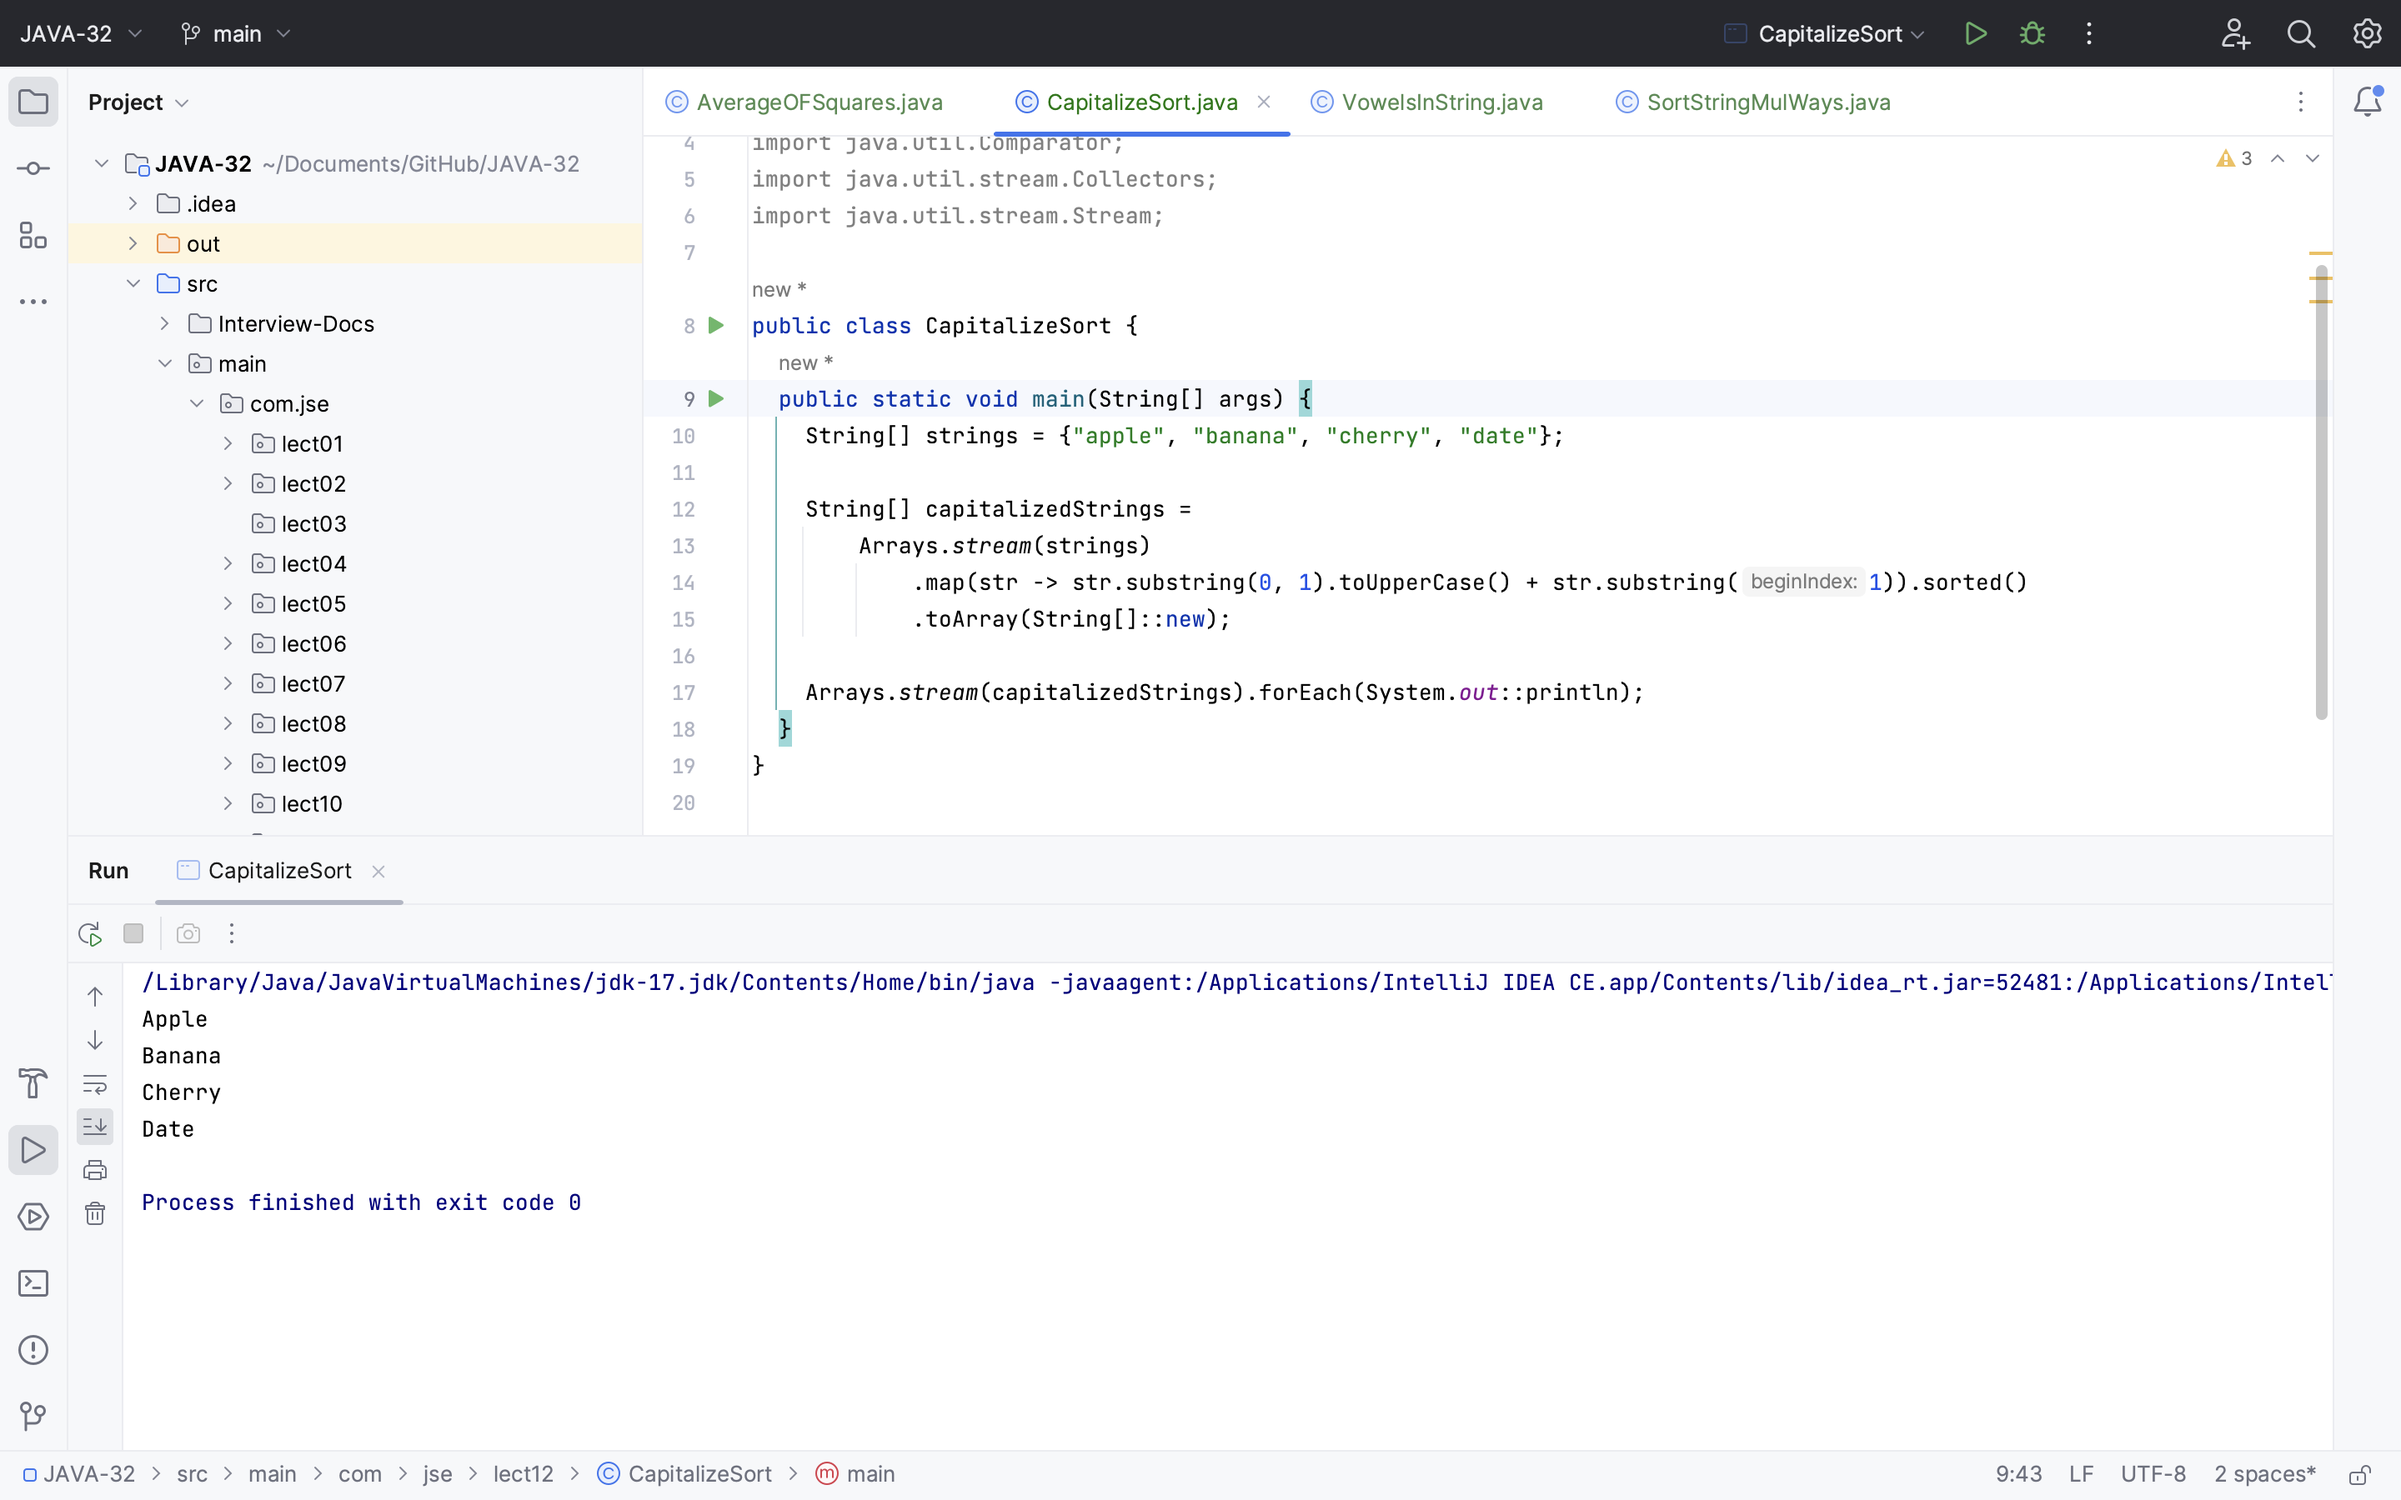
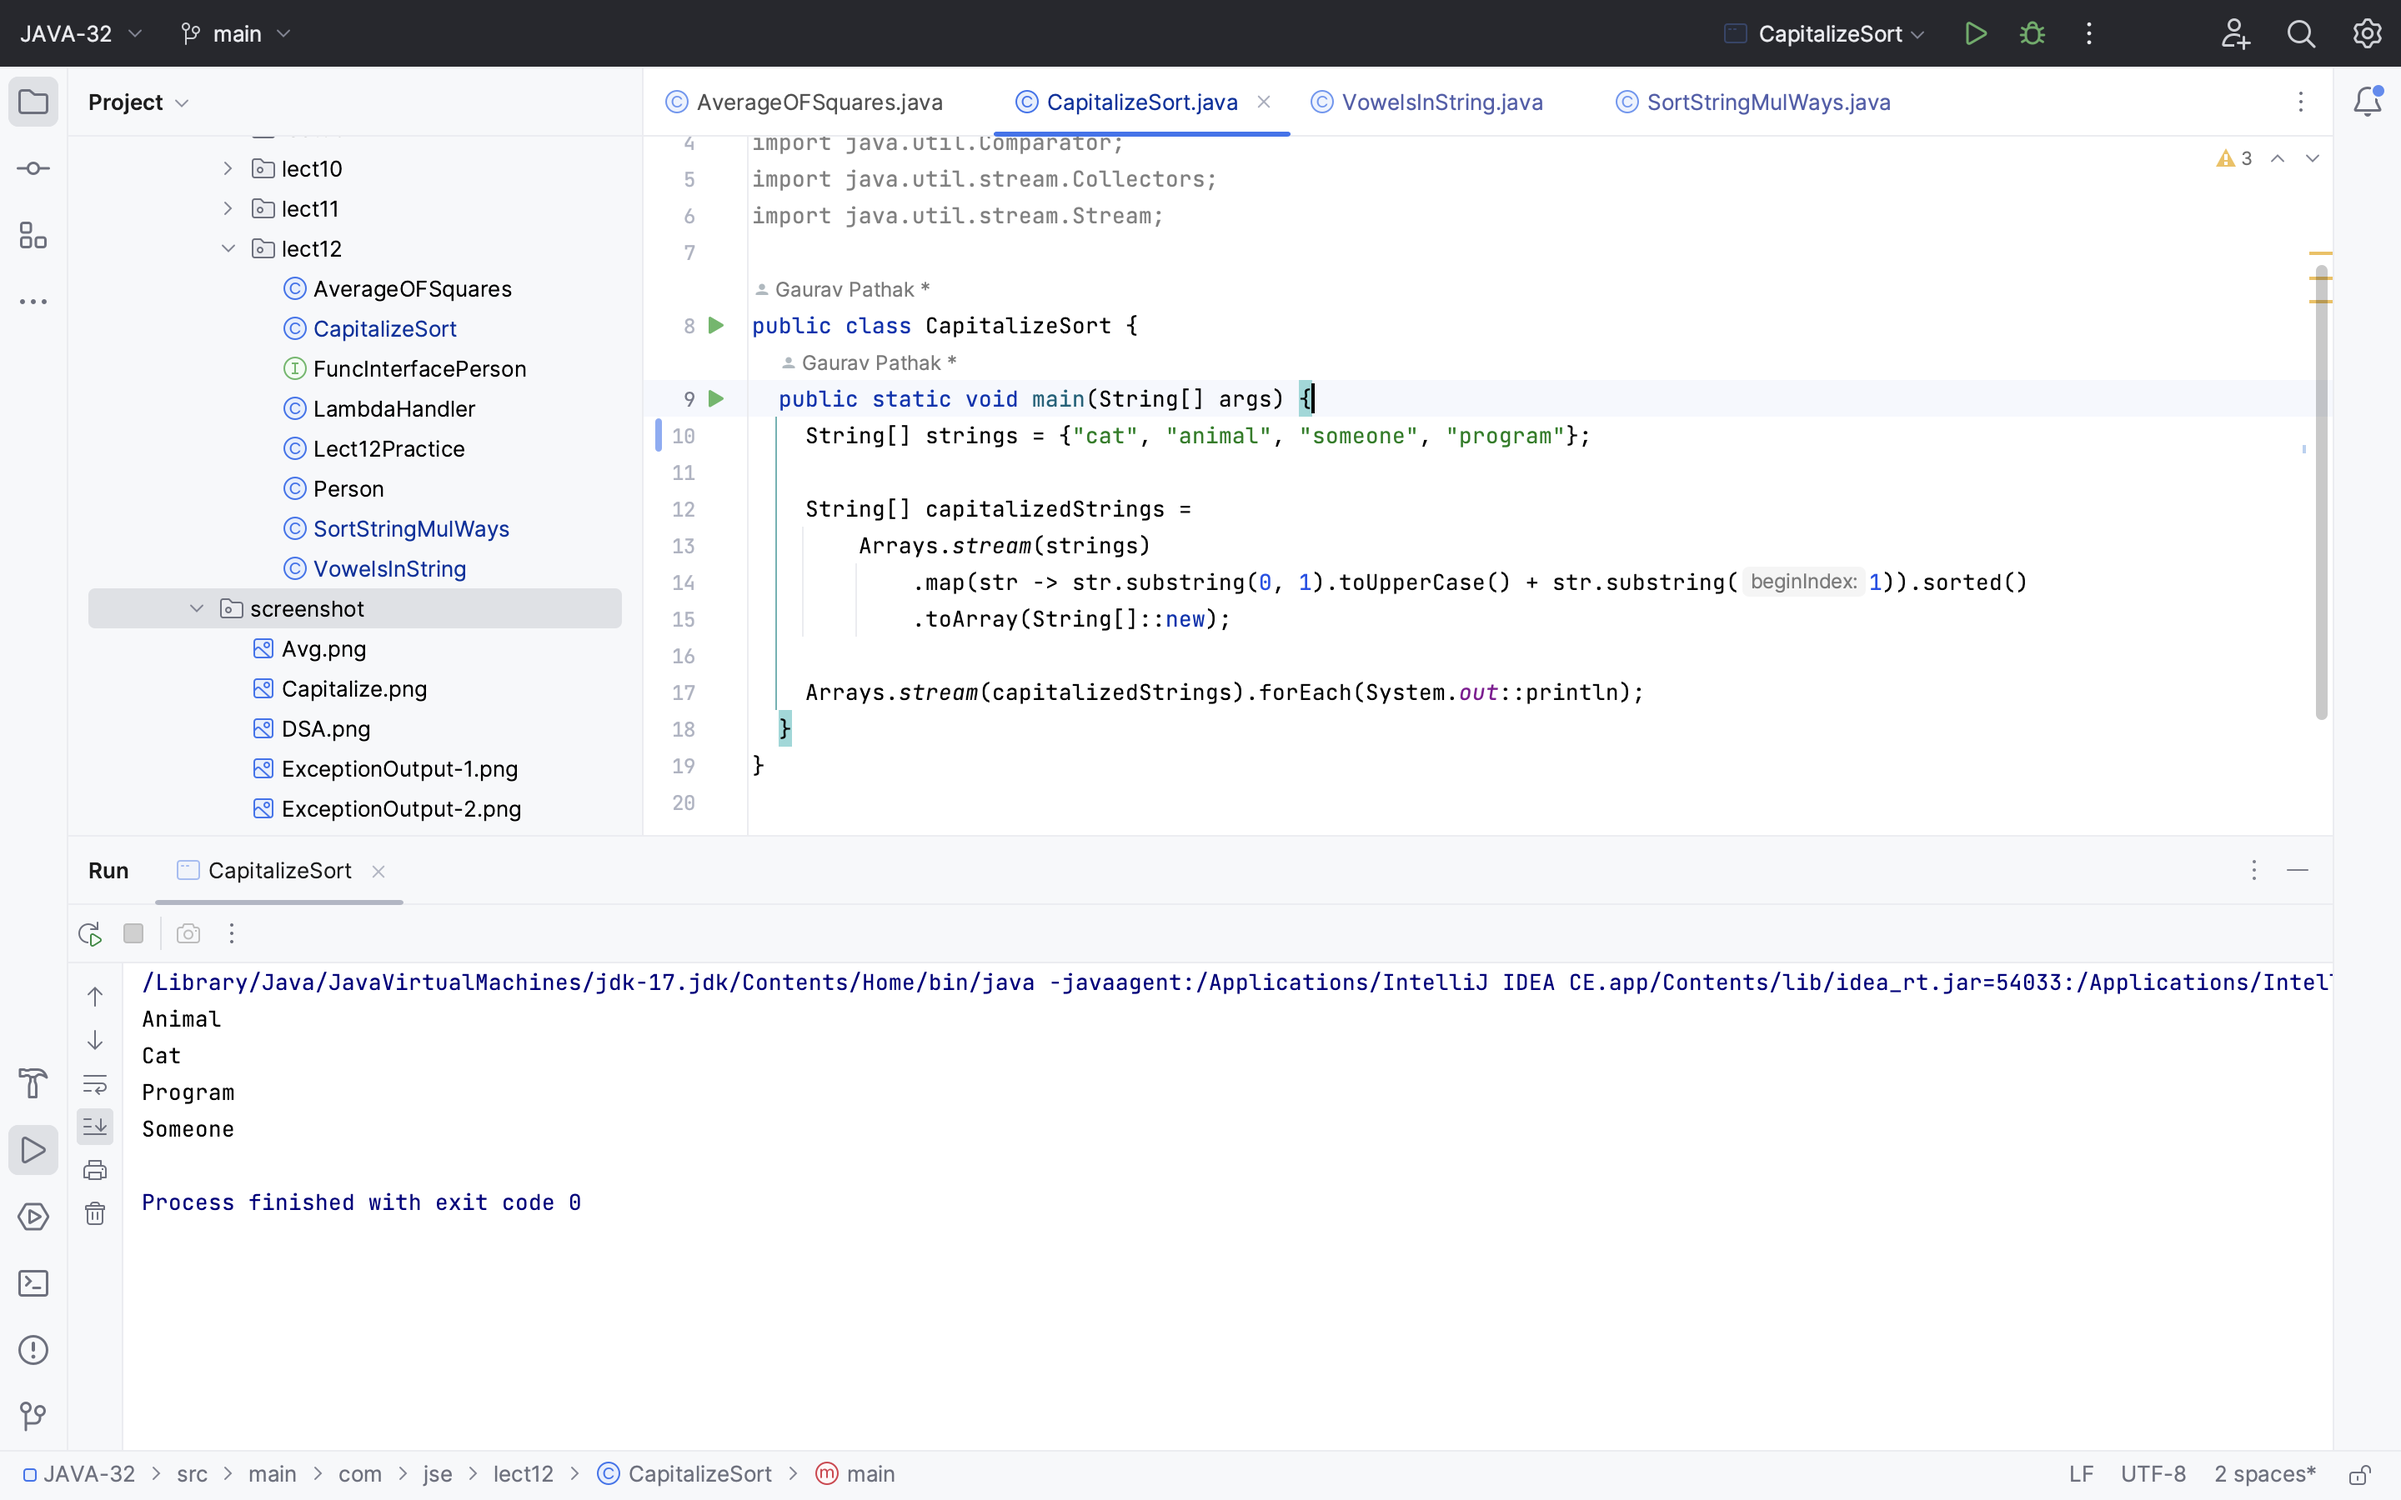
[Update]

diff --git a/src/main/com/jse/lect12/SortStringMulWays.java b/src/main/com/jse/lect12/SortStringMulWays.java
@@ -5,14 +5,14 @@ import java.util.Comparator;
 
 public class SortStringMulWays {
   public static void main(String[] args) {
-    String[] strings = {"apple", "banana", "cherry", "date"};
+    String[] strings = {"cat", "animal", "someone", "program"};
 
     Arrays.sort(
         strings,
         Comparator.comparingInt(String::length)
             .thenComparing(Comparator.comparingInt((String s) -> s.charAt(s.length() - 1)).reversed()));
 //    Arrays.stream(strings).sorted(Comparator.comparingInt((String s) -> s.charAt(s.length() - 1)).reversed());
-    Arrays.stream(strings).forEach(System.out::println);
+    Arrays.stream(strings).forEach(s-> System.out.println(s));
 
   }
 }

diff --git a/src/main/com/jse/lect12/CapitalizeSort.java b/src/main/com/jse/lect12/CapitalizeSort.java
@@ -7,7 +7,7 @@ import java.util.stream.Stream;
 
 public class CapitalizeSort {
   public static void main(String[] args) {
-    String[] strings = {"apple", "banana", "cherry", "date"};
+    String[] strings = {"cat", "animal", "someone", "program"};
 
     String[] capitalizedStrings =
         Arrays.stream(strings)

diff --git a/src/main/com/jse/lect12/VowelsInString.java b/src/main/com/jse/lect12/VowelsInString.java
@@ -5,7 +5,7 @@ import java.util.List;
 
 public class VowelsInString {
   public static void main(String[] args) {
-    String[] strings = {"apple", "banana", "cherry", "date"};
+    String[] strings = {"cat", "animal", "someone", "program"};
 
     List<String> stringList = Arrays.asList(strings);
 
